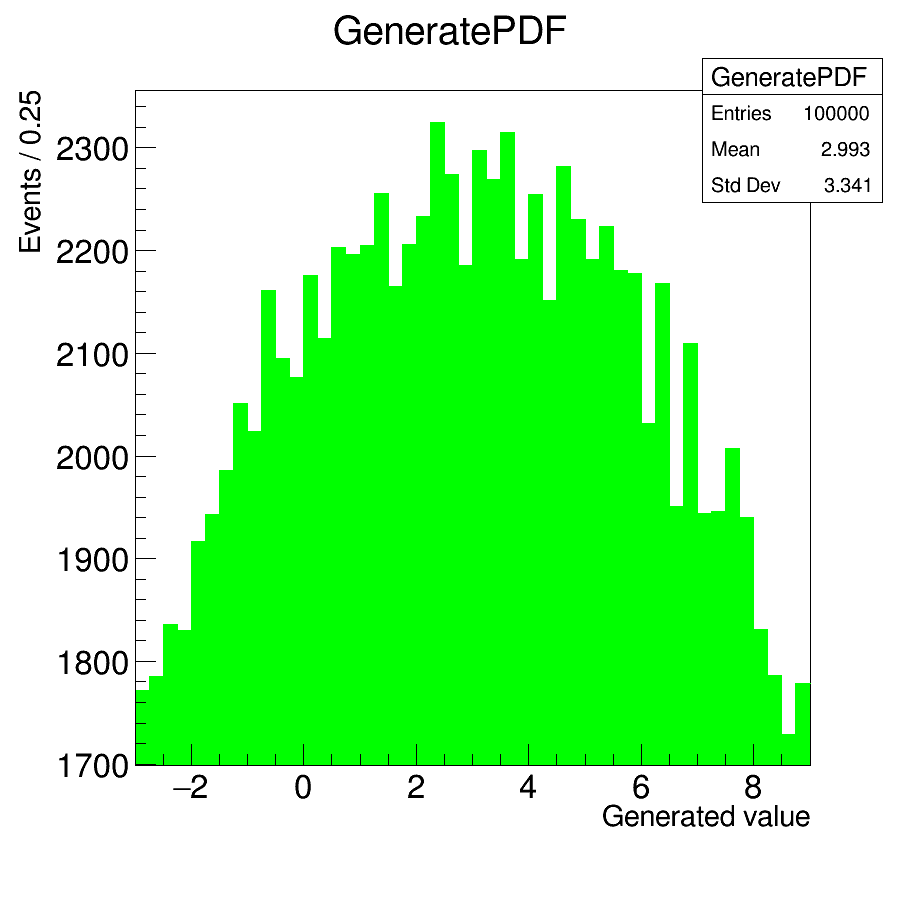
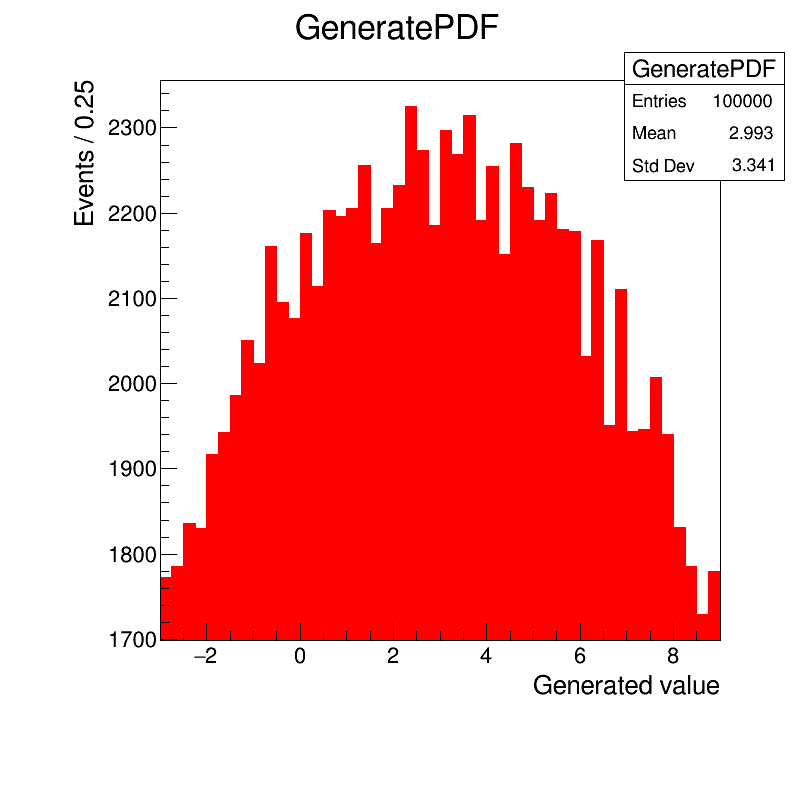
Kolokvij_1

diff --git a/Kolokvij_1/Zadatak_1/Generator.cpp b/Kolokvij_1/Zadatak_1/Generator.cpp
@@ -29,8 +29,6 @@ void Generator::GeneratePDF(){
 	hist -> GetYaxis () -> SetTitle ("Events / 0.25");
 	hist -> GetXaxis () -> SetLabelSize (0.03);
 	hist -> GetYaxis () -> SetLabelSize (0.03);
-	//hist -> SetFillColor (kRed);
-	//hist -> SetLineColor (kRed);
 	
 	canvas -> Print ("zad1.pdf");
 	canvas -> Print ("zad1.png");
